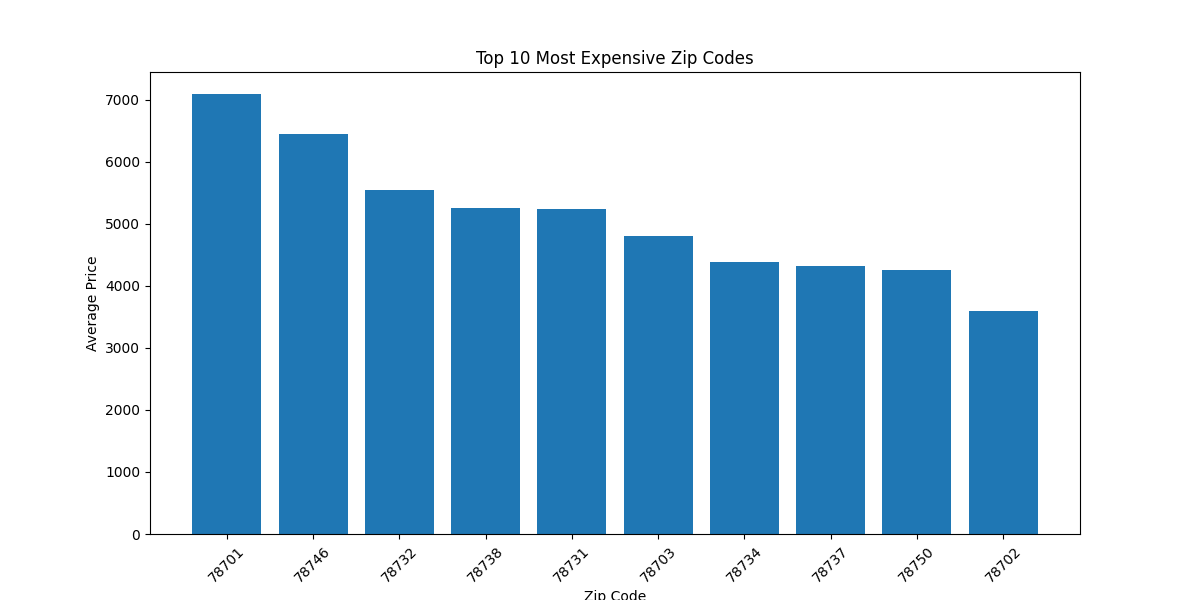
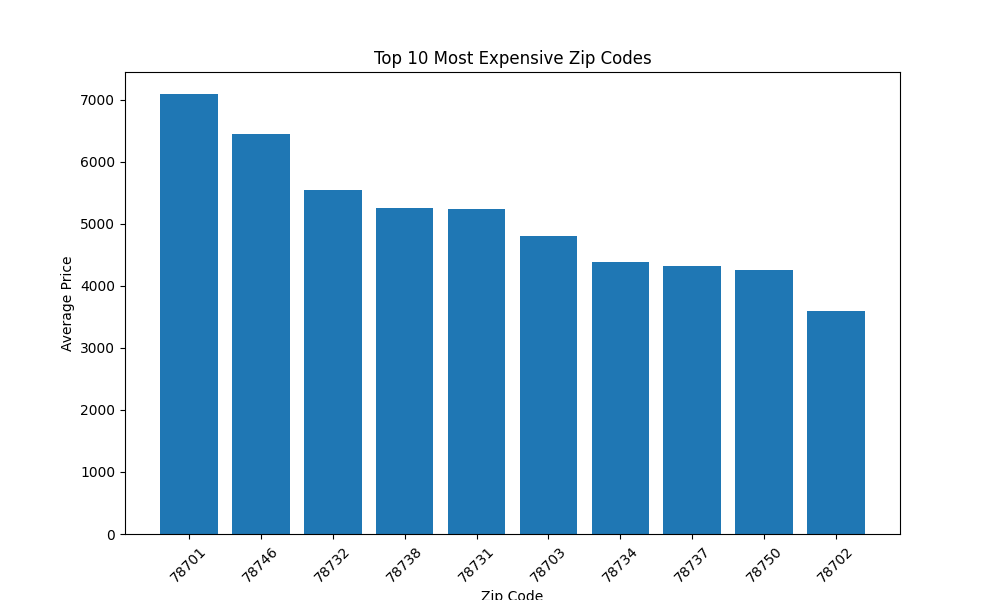
Fixed issue #89 : Changed size of plots

diff --git a/Code/analysis/analysis.py b/Code/analysis/analysis.py
@@ -19,15 +19,16 @@ print('-------------------------------------------------------------')
 print('Description')
 print(df.describe())
 print('-------------------------------------------------------------')
-'''Histogram of rents'''
+
+plt.figure(figsize=(10, 6))
 plt.hist(df['Price'], bins=10, color='blue', edgecolor='black')
 plt.xlabel('Rent Amount')
 plt.ylabel('Frequency')
 plt.title('Rent Distribution Histogram')
-plt.grid(True)
 plt.savefig(f'{image_path}/Rent_Distribution.png')
 plt.show()
 
+plt.figure(figsize=(10, 6))
 sns.scatterplot(x='Bedrooms', y='Price', data=df)
 plt.xlabel('Number of Rooms')
 plt.ylabel('Rent Price ($)')
@@ -39,11 +40,10 @@ plt.show()
 correlation = df['Bedrooms'].corr(df['Price'])
 print(f'Correlation between Number of Rooms and Rent Price: {correlation}')
 print('-------------------------------------------------------------')
-'''We see a moderate positive linear relationship between two variables: Price and # of bedrooms. As # of bedrooms increase so does price moderately.'''
-'''Lets see what is the average rent for different number of rooms'''
+
 average_rent_by_rooms = df.groupby('Bedrooms')['Price'].mean()
 
-plt.figure(figsize=(8, 6))
+plt.figure(figsize=(10, 6))
 average_rent_by_rooms.plot(kind='bar', color='blue')
 plt.title('Average Rent by Number of Rooms')
 plt.xlabel('Number of Rooms')
@@ -52,8 +52,8 @@ plt.xticks(rotation=0)
 plt.grid(axis='y')
 plt.savefig(f'{image_path}/Average_Rent_by_Number_of_Rooms.png')
 plt.show()
-'''Now lets check the impact on price from the distance to university'''
 
+plt.figure(figsize=(10, 6))
 sns.scatterplot(data=df,
                 x='Distance to the university (in miles)',
                 y='Price',
@@ -65,8 +65,7 @@ plt.title('Scatterplot of Distance vs. Rental Rate')
 plt.legend(title=' # of Bedrooms')
 plt.savefig(f'{image_path}/Scatterplot_Distance_vs._Rental_Rates.png')
 plt.show()
-'''There doesnt seem much of a pattern in distance vs rent'''
-'''Analyze how much variance in the rental rates is explained by distance from the university'''
+
 
 from sklearn.linear_model import LinearRegression
 from sklearn.metrics import r2_score
@@ -83,6 +82,7 @@ print(f'Coefficient for Distance to the university: {model.coef_[0]}')
 print('-------------------------------------------------------------')
 y_predict = model.predict(X)
 
+plt.figure(figsize=(10, 6))
 plt.scatter(X, y, label='Data')
 plt.plot(X, y_predict, color='red', label='Regression Line')
 plt.xlabel('Distance from University')
@@ -115,7 +115,7 @@ r2_ = r2_score(y1, y_pred)
 print(f'R-squared for distance and bedrooms: {r2_}')
 print('-------------------------------------------------------------')
 '''Now taking both the variables into account gives a relatively bigger r2 which means a lot more variance in rent is explained when these two factors/variables are accounted for together. The relationship is negative with distance and positive with number of bedrooms as expected.'''
-'''Lets see which zipcodes have the highest rents'''
+
 
 zipcode_rents = df.groupby('Zip')['Price'].mean().reset_index()
 
@@ -125,7 +125,7 @@ top_n = 10
 top_zipcodes = zipcode_rents['Zip'][:top_n].astype(str)
 top_rents = zipcode_rents['Price'][:top_n]
 
-plt.figure(figsize=(12, 6))
+plt.figure(figsize=(10, 6))
 plt.bar(top_zipcodes, top_rents)
 plt.xlabel('Zip Code')
 plt.ylabel('Average Price')
@@ -133,7 +133,7 @@ plt.title(f'Top {top_n} Most Expensive Zip Codes')
 plt.xticks(top_zipcodes, rotation=45)
 plt.savefig(f'{image_path}/Top_{top_n}_Most_Expensive_Zip_Codes.png')
 plt.show()
-'''I think it would also be interesting to see the impact of area on rents'''
+
 
 X2 = df['LivingArea'].values.reshape(-1, 1)
 y2 = df['Price'].values
@@ -153,23 +153,22 @@ plt.xlabel('Living Area (sq. ft)')
 plt.ylabel('Rent')
 plt.title('Impact of Living Area on Rent')
 plt.legend()
-plt.grid(True)
 plt.savefig(f'{image_path}/Impact_of_Living_Area_on_Rent.png')
 plt.show()
 
 r2__ = r2_score(y2, y_predicted)
 print(f'R-squared for living area: {r2__}')
 print('-------------------------------------------------------------')
-'''Calculate the correlation matrix'''
+
 correlation_matrix = df[['LivingArea', 'Price']].corr()
-'''Extract the correlation coefficient between LivingArea and Rent'''
+
 correlation_coefficient = correlation_matrix.loc['LivingArea', 'Price']
 
 print(f'Correlation Coefficient: {correlation_coefficient}')
 print('-------------------------------------------------------------')
-'''There is a moderately strong positive relationship between living area and rent which means as living area increases then so does rent. Also, about 50% variability in rent is explained by living area'''
 
-# Extract the relevant columns
+
+
 price = df['Price']
 living_area = df['LivingArea']
 distance = df['Distance to the university (in miles)']
@@ -177,11 +176,10 @@ bathroom = df['Bathrooms']
 bedroom = df['Bedrooms']
 zip_code = df['Zip']
 
-# Set the style and context for the plot
+
 sns.set(style='whitegrid')
 sns.set_context('talk')
 
-# Creating Box Plot for Price and Distance
 bins_distance = [0, 1, 2, 3, 6, 11, 20]
 labels_distance = ['0-1', '1-2', '2-3', '3-6', '6-11', '11-20']
 df['Binned_Distance'] = pd.cut(
@@ -191,10 +189,10 @@ df['Binned_Distance'] = pd.cut(
     right=False,
 )
 
-# Get default palette color
+
 default_color = sns.color_palette()[0]
 
-# Define properties for box and outlier
+
 boxprops = {'facecolor': default_color, 'color': default_color}
 flierprops = {
     'markerfacecolor': default_color,
@@ -202,7 +200,7 @@ flierprops = {
     'markersize': 5,
 }
 
-plt.figure(figsize=(12, 8))
+plt.figure(figsize=(10, 6))
 sns.boxplot(
     x='Binned_Distance',
     y='Price',
@@ -218,20 +216,14 @@ plt.xticks(rotation=45)
 plt.tight_layout()
 plt.savefig(f'{image_path}/Price_Distance_Box.png')
 
-# Creating a box plot that only graphs specific zip codes
-
 min_listings = 50
 zip_counts = df['Zip'].value_counts()
 zip_to_include = zip_counts[zip_counts > min_listings].index
 
 filtered_data = df[df['Zip'].isin(zip_to_include)]
 
-# Box Plot for Price and Filtered Zip Codes
-
-# Get default palette color
 default_color = sns.color_palette()[0]
 
-# Define properties for box and outlier
 boxprops_zip = {'facecolor': default_color, 'color': default_color}
 flierprops_zip = {
     'markerfacecolor': default_color,
@@ -239,7 +231,7 @@ flierprops_zip = {
     'markersize': 5,
 }
 
-plt.figure(figsize=(15, 8))
+plt.figure(figsize=(10, 6))
 sns.boxplot(
     x='Zip',
     y='Price',
@@ -256,21 +248,14 @@ plt.xticks(rotation=45)
 plt.tight_layout()
 plt.savefig(f'{image_path}/Price_Zip_Box.png')
 
-#extracting summary statistics
-
-# Group by Binned_Distance and compute the summary statistics
 summary_distance = df.groupby("Binned_Distance")["Price"].describe()
 
 print("Summary Statistics for Price based on Binned Distance to the University:")
 print(summary_distance)
 
-# Group by Zip and compute the summary statistics for the filtered data
 summary_zip = filtered_data.groupby("Zip")["Price"].describe()
 
 print("\nSummary Statistics for Price based on Zip Code (with at least {} listings):".format(min_listings))
 print(summary_zip)
-
-
-
 
 print('All figures are saved in the images folder')
